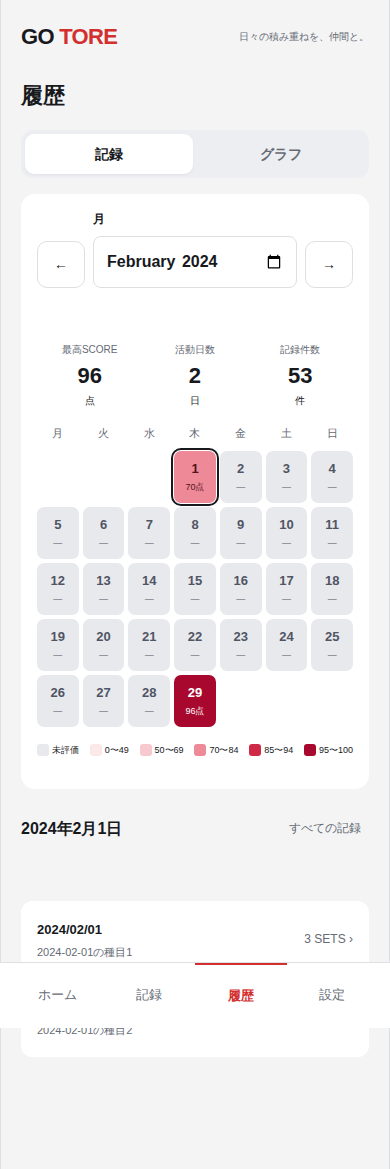
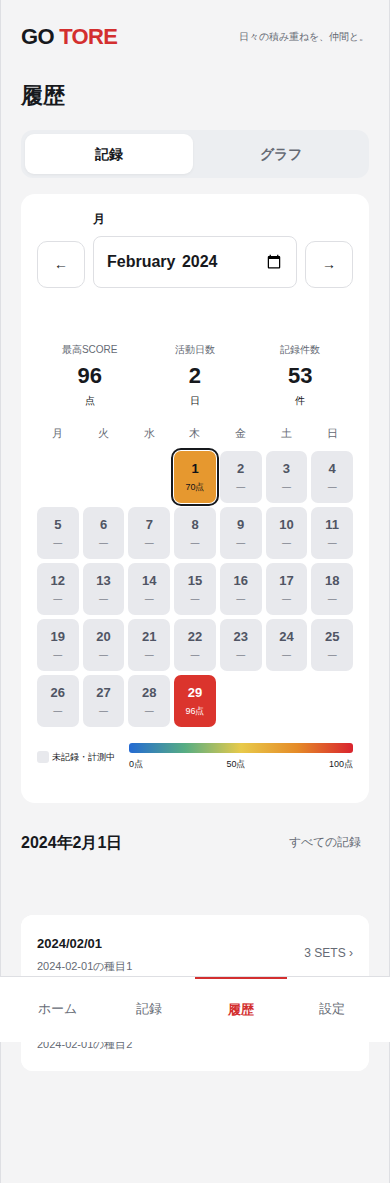
fix: SCOREを低得点の青から高得点の赤へ統一

diff --git a/frontend/src/features/activity/activity-calendar.tsx b/frontend/src/features/activity/activity-calendar.tsx
@@ -1,7 +1,7 @@
 "use client";
 
 import type { MonthlyActivity } from "@/lib/api";
-import { scoreLevel } from "../score/score-display";
+import { scoreAppearance, scoreGradient } from "../score/score-colors";
 import { today } from "../training/draft";
 import { useResource } from "../training/use-resource";
 import { calendarDays, dateLabel, shiftMonth } from "./calendar";
@@ -128,7 +128,8 @@ export function ActivityCalendar({
                 key={day}
                 type="button"
                 className="activity-day"
-                data-score-level={future ? 0 : scoreLevel(score)}
+                data-score={future ? "pending" : (score ?? "pending")}
+                style={scoreAppearance(future ? null : score)}
                 data-pending={!!counts && score === null}
                 disabled={future || !activity.data}
                 aria-label={`${dateLabel(day)}、${future ? "未来の日付" : !activity.data ? "未取得" : `${label}、${counts?.workout_count ?? 0}件`}`}
@@ -150,13 +151,19 @@ export function ActivityCalendar({
             );
           })}
         </div>
-        <div className="activity-legend" aria-label="色の凡例（SCORE）">
-          {["未評価", "0〜49", "50〜69", "70〜84", "85〜94", "95〜100"].map((label, level) => (
-            <span key={label}>
-              <span className="heat-swatch" data-score-level={level} aria-hidden="true" />
-              {label}
-            </span>
-          ))}
+        <div className="activity-legend score-legend" aria-label="色の凡例（SCORE）">
+          <span>
+            <span className="heat-swatch" style={scoreAppearance(null)} aria-hidden="true" />
+            未記録・計測中
+          </span>
+          <div className="score-gradient-legend">
+            <span style={{ background: scoreGradient }} aria-hidden="true" />
+            <div>
+              <span>0点</span>
+              <span>50点</span>
+              <span>100点</span>
+            </div>
+          </div>
         </div>
         {activity.data?.workout_count === 0 && <p className="muted">この月は記録なし</p>}
       </>

diff --git a/frontend/src/app/v2.css b/frontend/src/app/v2.css
@@ -1659,31 +1659,7 @@
   padding-top: 8px;
 }
 
-/* 同じ得点帯をホーム・終了結果・カレンダーで共用する。 */
-[data-score-level="0"] {
-  --score-bg: #e8e9ed;
-  --score-ink: #505564;
-}
-[data-score-level="1"] {
-  --score-bg: #fbe9ea;
-  --score-ink: #7f2332;
-}
-[data-score-level="2"] {
-  --score-bg: #f7c8ce;
-  --score-ink: #7f1b2c;
-}
-[data-score-level="3"] {
-  --score-bg: #ee8a98;
-  --score-ink: #521220;
-}
-[data-score-level="4"] {
-  --score-bg: #cf2947;
-  --score-ink: #ffffff;
-}
-[data-score-level="5"] {
-  --score-bg: #a9082e;
-  --score-ink: #ffffff;
-}
+/* 得点色はscore-colors.tsで共用し、文字は背景に応じて読みやすくする。 */
 .score-badge {
   padding: 3px 7px;
   border-radius: 4px;
@@ -1727,7 +1703,7 @@
   line-height: 1.2;
   font-variant-numeric: tabular-nums;
 }
-.feed-record-row > .score-badge[data-score-level="0"] strong {
+.feed-record-row > .score-badge[data-score="pending"] strong {
   font-size: 12px;
 }
 .result-score {
@@ -1801,4 +1777,23 @@
 .workout-result .result-comment {
   margin-top: 8px;
   padding-top: 8px;
+}
+
+.score-legend {
+  align-items: center;
+  gap: 14px;
+}
+.score-gradient-legend {
+  flex: 1;
+  min-width: 140px;
+}
+.score-gradient-legend > span {
+  display: block;
+  height: 10px;
+  border-radius: 3px;
+}
+.score-gradient-legend > div {
+  display: flex;
+  justify-content: space-between;
+  margin-top: 4px;
 }

diff --git a/frontend/tests/unit/score-display.test.tsx b/frontend/tests/unit/score-display.test.tsx
@@ -36,9 +36,18 @@ test("確定総合点・未導入の記録・訂正後の状態を区別する",
   ).toContain("記録変更あり");
 });
 
-test("共通の色は未評価と0点を区別し、固定した得点帯で切り替える", async () => {
-  const { scoreLevel } = await import("../../src/features/score/score-display");
-  expect([null, 0, 49, 50, 69, 70, 84, 85, 94, 95, 100].map(scoreLevel)).toEqual([
-    0, 1, 1, 2, 2, 3, 3, 4, 4, 5, 5,
-  ]);
+test("得点色は青から緑・暖色を通って赤へ連続し、未評価は灰色で0点と区別する", async () => {
+  const { scoreAppearance, scoreGradient } = await import("../../src/features/score/score-colors");
+  const background = (value: number | null) =>
+    scoreAppearance(value)["--score-bg" as keyof ReturnType<typeof scoreAppearance>];
+  expect(background(null)).toBe("rgb(232, 233, 237)");
+  expect(background(0)).toBe("rgb(36, 106, 211)");
+  expect(background(100)).toBe("rgb(217, 35, 46)");
+  expect(background(74)).not.toBe(background(75));
+  expect(scoreGradient).toContain("rgb(87, 173, 131)");
+  for (let score = 0; score <= 100; score++) {
+    const channels = String(background(score)).match(/\d+/g)?.map(Number) ?? [];
+    // 紫の主成分である赤・青が同時に緑を大きく上回る色を入れない。
+    expect(channels[0] > channels[1] + 30 && channels[2] > channels[1] + 30).toBe(false);
+  }
 });

diff --git a/frontend/src/features/score/score-colors.ts b/frontend/src/features/score/score-colors.ts
@@ -1,0 +1,32 @@
+import type { CSSProperties } from "react";
+
+// 高得点はテーマの赤。青から緑・暖色を通り、紫を避ける。
+const stops = [
+  [36, 106, 211],
+  [87, 173, 131],
+  [232, 202, 74],
+  [229, 139, 40],
+  [217, 35, 46],
+];
+const rgb = (values: number[]) => `rgb(${values.join(", ")})`;
+export const scoreGradient = `linear-gradient(to right, ${stops.map(rgb).join(", ")})`;
+
+export function scoreAppearance(value: number | null | undefined): CSSProperties {
+  if (value == null || !Number.isFinite(value))
+    return { "--score-bg": "rgb(232, 233, 237)", "--score-ink": "#505564" } as CSSProperties;
+  const position = Math.max(0, Math.min(100, value)) / 25;
+  const index = Math.min(3, Math.floor(position));
+  const fraction = position - index;
+  const channels = stops[index].map((channel, i) =>
+    Math.round(channel + (stops[index + 1][i] - channel) * fraction),
+  );
+  const linear = channels.map((channel) => {
+    const srgb = channel / 255;
+    return srgb <= 0.04045 ? srgb / 12.92 : ((srgb + 0.055) / 1.055) ** 2.4;
+  });
+  const luminance = linear[0] * 0.2126 + linear[1] * 0.7152 + linear[2] * 0.0722;
+  return {
+    "--score-bg": rgb(channels),
+    "--score-ink": luminance > 0.179 ? "#101218" : "#ffffff",
+  } as CSSProperties;
+}

diff --git a/frontend/src/features/score/score-display.tsx b/frontend/src/features/score/score-display.tsx
@@ -1,4 +1,5 @@
 import type { ScoreAxis, ScoreSummary } from "@/lib/api";
+import { scoreAppearance } from "./score-colors";
 
 export const scoreLabels: Record<ScoreAxis, string> = {
   c: "継続",
@@ -15,21 +16,13 @@ export function scoreText(score: ScoreSummary) {
       : "計測中";
 }
 
-export function scoreLevel(score: number | null | undefined): number {
-  if (score == null) return 0;
-  if (score < 50) return 1;
-  if (score < 70) return 2;
-  if (score < 85) return 3;
-  if (score < 95) return 4;
-  return 5;
-}
-
 export function ScoreBadge({ score }: { score?: ScoreSummary | null }) {
   if (!score) return null;
   return (
     <span
       className="score-badge"
-      data-score-level={scoreLevel(score.status === "stale" ? null : score.total)}
+      data-score={score.status === "stale" ? "pending" : (score.total ?? "pending")}
+      style={scoreAppearance(score.status === "stale" ? null : score.total)}
     >
       <span>SCORE</span> <strong>{scoreText(score)}</strong>
     </span>

diff --git a/frontend/tests/e2e/activity-heatmap.spec.ts b/frontend/tests/e2e/activity-heatmap.spec.ts
@@ -75,10 +75,10 @@ async function activityFixture(page: Page) {
 test("SCOREヒートマップから日付を選び、日別記録を50件ずつ確認する", async ({ page }) => {
   await activityFixture(page);
   const day = page.getByRole("button", { name: "2024年2月29日、96点、51件", exact: true });
-  await expect(day).toHaveAttribute("data-score-level", "5");
+  await expect(day).toHaveAttribute("data-score", "96");
   await expect(
     page.getByRole("button", { name: "2024年2月1日、70点、2件", exact: true }),
-  ).toHaveAttribute("data-score-level", "3");
+  ).toHaveAttribute("data-score", "70");
   await day.focus();
   await page.keyboard.press("Enter");
   await expect(day).toHaveAttribute("aria-pressed", "true");

diff --git a/frontend/src/features/score/workout-result.tsx b/frontend/src/features/score/workout-result.tsx
@@ -1,5 +1,6 @@
 import type { ScoreDetail, Workout } from "@/lib/api";
-import { ScoreBreakdown, scoreLevel, scoreText } from "./score-display";
+import { scoreAppearance } from "./score-colors";
+import { ScoreBreakdown, scoreText } from "./score-display";
 
 export function WorkoutResult({
   record,
@@ -24,7 +25,7 @@ export function WorkoutResult({
     <section
       className="workout-result"
       aria-label="トレーニング結果"
-      data-score-level={scoreLevel(score?.status === "stale" ? null : score?.total)}
+      style={scoreAppearance(score?.status === "stale" ? null : score?.total)}
     >
       <p className="result-eyebrow">TRAINING COMPLETE</p>
       <h1>おつかれさまでした。</h1>
